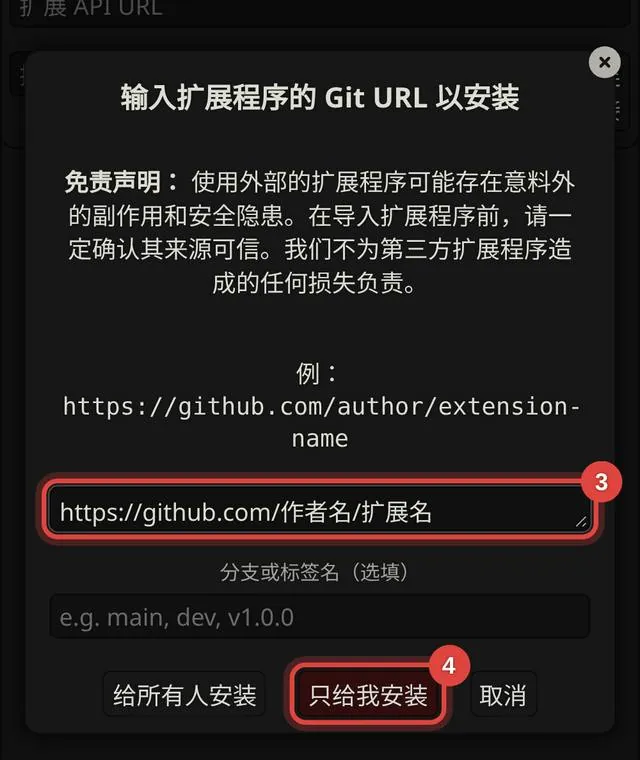
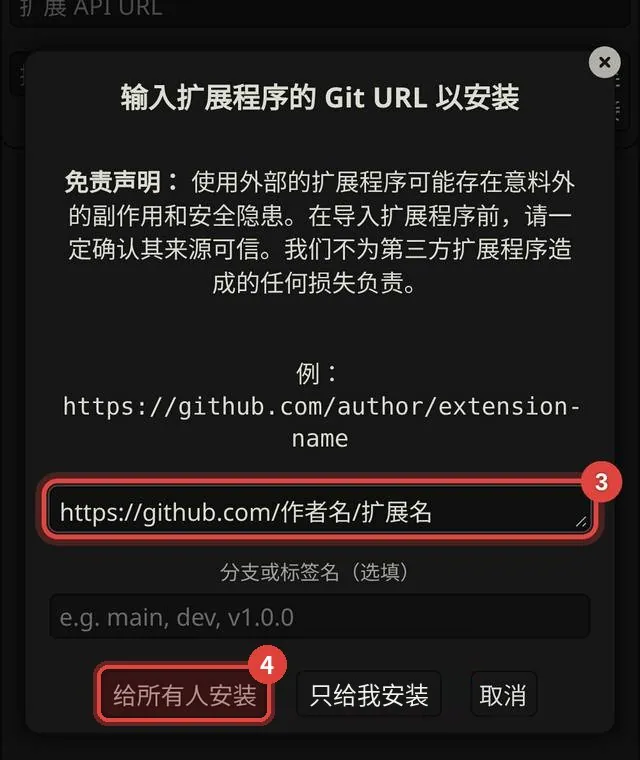
Update Love Fixer guides and clarify local data use

Changed region(s): [[0.125, 0.8474, 0.75, 0.9684]]

diff --git a/index.js b/index.js
@@ -324,7 +324,7 @@ function panelHtml(kind = 'ext') {
                     <label>格式<select class="text_pole lf-h" data-h="protocol"><option value="openai"${h.protocol === 'openai' ? ' selected' : ''}>OpenAI 兼容</option><option value="anthropic"${h.protocol === 'anthropic' ? ' selected' : ''}>Anthropic</option></select></label>
                     <label>地址<input class="text_pole lf-h" data-h="url" value="${esc(h.url)}" placeholder="https://你的接口/v1"></label>
                     <label>模型<input class="text_pole lf-h" data-h="model" value="${esc(h.model)}" placeholder="填模型名"></label>
-                    <label>密钥<input class="text_pole lf-key" type="password" value="${esc(localStorage.getItem('lf_helper_key') || '')}" placeholder="只存在这台设备的浏览器里"></label>
+                    <label>密钥<input class="text_pole lf-key" type="password" value="${esc(localStorage.getItem('lf_helper_key') || '')}" placeholder="保存在本机，用于请求所选接口"></label>
                 </div>
                 <label>答疑链接<input class="text_pole lf-h" data-h="desk" value="${esc(h.desk)}" placeholder="「新手答疑」频道链接，填了就能一键跳过去"></label>
                 <div class="lf-attach"><span>提问时附带</span>
@@ -943,9 +943,9 @@ let helperOn = false; let helperBypass = false; let tipHit = null;
 let frameEl; let tipEl; let badgeEl;
 
 const MARK = {
-    main: '预设作者写的总规矩：AI 扮演谁、怎么写、哪些不能写。排在最前，AI 把它当“法律”；但离最新消息最远，聊久了会被冲淡，所以重要规则常在尾部再强调一次。',
+    main: '预设作者写的总规矩：AI 扮演谁、怎么写、哪些不能写。破限一般也放在预设最上面这一块。排在最前，AI 把它当“法律”；但离最新消息最远，聊久了会被冲淡，所以重要规则常在尾部再强调一次。',
     nsfw: '辅助提示词槽位，酒馆固定的一个位置，很多预设拿它放额外规则，具体内容看预设作者写了什么。',
-    jailbreak: '后置指令（俗称破限位）：排在聊天历史后面，是 AI 开口前最后看到的规矩之一，用来压住前面被冲淡的规则，也最容易和别的条目打架。',
+    jailbreak: '后置指令：排在聊天历史后面，是 AI 开口前最后看到的规矩之一，用来压住前面被冲淡的规则，也最容易和别的条目打架。（破限不在这里，破限一般放在预设最上面。）',
     enhanceDefinitions: '增强定义：让 AI 调用自己对知名角色的了解来补全设定，原创卡一般用不上。',
     worldInfoBefore: '世界书（角色定义之前）：酒馆固定位。所有设成“角色定义之前”的世界书条目都塞到这里，先给舞台再给演员。蓝灯条目每次都在，绿灯条目要聊天里出现关键词才进来。',
     worldInfoAfter: '世界书（角色定义之后）：紧贴角色定义，AI 会把这里当成角色的补充来读，适合关系网、隐藏设定。',
@@ -986,7 +986,7 @@ function explainPrompt(li) {
     else if (p?.role === 'assistant') lines.push('以 AI 的身份发送：AI 会把这段当成“自己说过的话”。');
     if (p?.content && !p.marker) lines.push('内容开头：' + esc(snip(p.content, 70)));
     const tags = [isOn && idx >= 0 ? `第 ${idx + 1} / ${enabled.length} 条` : '未启用，不会发送', '发送身份 ' + role, abs ? `深度 D${depth}` : (MARK[id] ? '酒馆固定位' : '相对位置')];
-    const SL = { main: '主提示', jailbreak: '破限位、JB', nsfw: 'NSFW 位', worldInfoBefore: '世界书', worldInfoAfter: '世界书', chatHistory: '上下文、聊天记录', dialogueExamples: '示例对话', personaDescription: 'user 人设、Persona', charDescription: '卡' };
+    const SL = { main: '主提示', jailbreak: '后置指令', nsfw: 'NSFW 位', worldInfoBefore: '世界书', worldInfoAfter: '世界书', chatHistory: '上下文、聊天记录', dialogueExamples: '示例对话', personaDescription: 'user 人设、Persona', charDescription: '卡' };
     let slang = SL[id] || (abs ? `D${depth}、深度注入` : '');
     if (p?.role === 'assistant' && idx === enabled.length - 1 && idx >= 0) slang = '预填、prefill';
     return {
@@ -1065,15 +1065,15 @@ function explainControl(el) {
 const GLOSSARY = [
     ['酒馆', 'ST、SillyTavern', '就是 SillyTavern 本体，一个连 AI 玩角色扮演的前端。'],
     ['卡', '角色卡', '一张 PNG 或 JSON，存角色设定和开场白，可能还自带世界书和正则。'],
-    ['人设卡 / 世界卡 / 多人卡', '', '人设卡写一个角色；世界卡写一个世界，AI 当旁白；多人卡是一张卡里有好几个角色，各个角色的设定放在世界书里，聊到谁就把谁的条目发给 AI。'],
-    ['多人卡', '', '一张卡里有好几个角色。角色设定一般放在卡自带的世界书里，每个角色一条，聊天里提到谁就触发谁的条目。所以导入多人卡时，一定要选“导入卡内世界书”。'],
+    ['人设卡 / 世界卡 / 多人卡', '', '人设卡写一个角色；世界卡写一个世界，AI 当旁白；多人卡是一张卡里有好几个角色，各个角色的设定放在世界书里：绿灯的角色条目要聊天里提到才发，蓝灯的每次都发。'],
+    ['多人卡', '', '一张卡里有好几个角色。角色设定一般放在卡自带的世界书里，每个角色一条。这些条目是绿灯的话，聊天里提到这个角色才会发给 AI；是蓝灯的话，每次都会发。所以导入多人卡时，一定要选“导入卡内世界书”。'],
     ['同人卡', '', '基于已有作品的卡。'],
     ['手枪卡', '', '以成人内容为主的卡。'],
     ['前端卡', '美化卡', '自带网页界面的卡，靠正则或酒馆助手把文字渲染成界面，状态栏、开场白主页都算。'],
     ['开场白', '首条、0 楼', '卡的第一条消息。“开场白主页”是可以点按钮选开局的前端界面。'],
     ['写卡', '搓卡、捏卡', '自己写角色卡。'],
     ['预设', '', '一整套发给 AI 的规矩加参数：文风、规则、长度、温度。'],
-    ['破限', 'JB、越狱', '让模型少拒绝、放开写的提示词。“破限位”就是预设里的后置指令那一格。'],
+    ['破限', 'JB、越狱', '让模型少拒绝、放开写的提示词，一般放在预设最上面。'],
     ['预填', '预填充、prefill', '替 AI 写好回复开头，AI 会顺着往下写。注意 Gemini 3.1 Pro，还有 3.5 Flash 之后出的哈基米（3.6 Flash 起），都不适配预填了；3.5 Flash 本身还能用。'],
     ['双惩罚', '频率惩罚、存在惩罚', '两个治复读的参数。哈基米从 Gemini 2.5 起就不支持了，调了也没用，放 0 就行。'],
     ['思维链', 'COT、思考', '让 AI 先打草稿、想清楚再写正文。'],
@@ -1759,7 +1759,7 @@ function wizUrlCheck() {
 function wizKey(acts) {
     const ch = wizCh;
     guide(q1(ch.key));
-    wizSay('密钥要你<b>自己填</b>，我不会碰，也看不到。填进红框里，填好点“我填好了”，我帮你点连接。<br><span class="lf-wdim">提醒：密钥相当于密码，别发给任何人；分享截图前把密钥遮住。中转地址不用遮，去答疑提问时别人要看它对不对。</span>', acts);
+    wizSay('密钥要你<b>自己填</b>，我只检查红框里是否已填写，不保存这处的密钥内容。填好点“我填好了”，我帮你点连接。<br><span class="lf-wdim">提醒：密钥相当于密码，别发给任何人；分享截图前把密钥遮住。中转地址不用遮，去答疑提问时别人要看它对不对。</span>', acts);
     wizOpts([['我填好了', wizConnect, 1], ['密钥去哪拿？', () => { wizSay(ch.where + '密钥相当于账号密码，别发给任何人。'); wizOpts([['我填好了', wizConnect, 1]]); }]]);
 }
 
@@ -1903,7 +1903,7 @@ function wizHelperSetup() {
     const h = { ...(ch.helper || { protocol: 'openai', url: '', model: '' }) };
     if (ch.src === 'custom' && !ch.fixedUrl) h.url = (q1(ch.url)?.value || '').trim();
     const needModel = !h.model;
-    wizSay(`我先帮你填好：格式 ${h.protocol === 'anthropic' ? 'Anthropic' : 'OpenAI 兼容'}，地址 ${esc(h.url || '（待填）')}${h.model ? `，模型 ${esc(h.model)}` : ''}。<br>密钥还是要<b>你自己粘贴</b>一次（和刚才那个一样就行），只存在这台设备的浏览器里。
+    wizSay(`我先帮你填好：格式 ${h.protocol === 'anthropic' ? 'Anthropic' : 'OpenAI 兼容'}，地址 ${esc(h.url || '（待填）')}${h.model ? `，模型 ${esc(h.model)}` : ''}。<br>密钥还是要<b>你自己粘贴</b>一次（和刚才那个一样就行），会保存在本机浏览器，并用于请求选定的 AI 接口。
         <div class="lf-wform"><input type="password" class="text_pole" id="lf_wk" placeholder="粘贴密钥">${needModel ? '<input class="text_pole" id="lf_wm" placeholder="填一个便宜的模型名，带 mini、flash、haiku 的一般都便宜">' : ''}</div>`);
     wizOpts([['保存并测试', async () => {
         const key = (document.getElementById('lf_wk')?.value || '').trim();
@@ -2631,7 +2631,7 @@ const GUIDES = {
         pages: [
             ['step1', '点顶栏的“扩展程序”', '积木形状的图标，所有扩展都住在这里。', '#extensions-settings-button > .drawer-toggle', ''],
             ['step2', '点“安装扩展程序”', '扩展面板最上面那排按钮里，带云朵下载箭头的那个。', '#third_party_extension_button', '#extensions-settings-button'],
-            ['step3', '粘贴地址，点“只给我安装”', '把扩展的 Git 地址粘进输入框，一般是从社区帖子里复制的 GitHub 链接。下面的“分支或标签名”不用填。管理员会多一个“给所有人安装”。GitHub 连不上，就用帖子里给的镜像地址。', '', ''],
+            ['step3', '粘贴地址，点“给所有人安装”', '把扩展的 Git 地址粘进输入框，一般是从社区帖子里复制的 GitHub 链接。下面的“分支或标签名”不用填。点“给所有人安装”；没有这个按钮的话，点“只给我安装”也一样。GitHub 连不上，就用帖子里给的镜像地址。', '', ''],
             ['step4', '第三方提醒：点“Yes, install it”', '不是官方扩展会弹这个英文提醒，意思是“第三方扩展可能有风险，确定要装吗”。确认来源可信就点 Yes。勾上“Don\'t show this warning again”，以后就不再问。', '', ''],
             ['step5', '看到“扩展程序安装成功”就好了', '新版酒馆会自动加载，老版本刷新一下页面。装好的扩展出现在扩展面板里，点它的标题展开设置。<br>实在装不上：把扩展下载成 zip，解压后整个文件夹放进 <code>SillyTavern/data/default-user/extensions/</code>，再重启酒馆。', '', ''],
         ],

diff --git a/docs/features.md b/docs/features.md
@@ -1,0 +1,139 @@
+# 功能介绍
+
+所有功能都从**顶栏的路线图标**进。三条杠菜单里也有两个入口：「Love 修正机」和「讲解：点哪讲哪」。
+
+点开总入口，从上到下是：
+
+| 位置 | 是什么 | 什么时候用 |
+|---|---|---|
+| 最上面 | **新手引导** | 第一次用，先做这个 |
+| 两个大按钮 | **帮我查问题** / **优化设置** | 出问题了 / 想调设置 |
+| 看不懂？ | 讲解、问小助手、词典、带我学 | 界面上哪儿不认识 |
+| 平时聊天 | 快捷台、做大总结 | 日常顺手用 |
+
+刚报过错时，「帮我查问题」会标上“刚才有报错”；聊天超过 10 万 token 时，「做大总结」会标上“该做了”。
+
+---
+
+## 1. 新手引导
+
+一张九步的清单，修正机自己判断哪步做完了，做完的打勾：
+
+1. 切成中文
+2. 连上 API
+3. 配好小助手（可选）
+4. 导入预设
+5. 导入角色卡
+6. 装酒馆助手（可选）
+7. 认识正则（可选）
+8. 写 user 设定
+9. 发出第一句话
+
+点「下一步」就带你去做下一项没做的。每一步都会打开对应的面板，**用红框框出要点的地方**，底下的「小助手 · 带你做」窗口说明怎么操作。要框的东西被窗口挡住时，会自动滚上来，或者把窗口挪到屏幕顶上。
+
+配 API 时会帮你填好接口类型和来源；用中转的话，**提示词后处理**会帮你选不带工具的「严格」。酒馆密钥由你自己填写；配置向导只检查密钥框是否已填写，不保存这处的密钥内容。
+
+---
+
+## 2. 帮我查问题
+
+出问题了就点这个，按顺序走：
+
+**① 自动体检**：一打开就查一遍常见问题。能修的点一下就修好，比如：
+
+- 接口不是聊天补全
+- 回复长度太小、上下文太小
+- 局部正则、预设正则的「允许」开关关着
+- 卡要用的酒馆助手、提示词模板没装
+- 聊天超过 10 万 token 没做大总结
+- 没写 user 设定
+- 用中转时提示词后处理不是「严格」
+- 哈基米开着真流、回复被截断
+- 用 Gemini 3.1 Pro、3.6 Flash 起的模型，预设里还开着预填
+- 开着内容一字不差的重复条目
+
+**② 让小助手看屏幕**：还没解决，就让小助手读一遍屏幕状态和报错（不读密钥），直接告诉你怎么办。要先接 API。
+
+**③ 去答疑提问**：前面都没解决，再去社区的「新手答疑」问人。修正机会帮你：
+
+- 把版本、设备、渠道和模型、中转地址、预设、卡、报错原文**自动填进提问草稿**
+- 接了 API 的话，小助手会追问几句，把「我做了什么 → 想要什么 → 实际怎样 → 试过什么」问清楚，写成完整的提问
+- 列出该截哪几张图，点「带我去」直接框出来
+
+> 截图只遮**密钥**、真名和联系方式。**中转地址不要遮**，答疑的人要靠它判断地址填得对不对。
+
+最下面是「修过的设置」：修正机替你改过的每一项都记着，可以一条条还原，也可以全部还原。
+
+另外有一张「条目之间有没有打架？」：体检只报能确定的问题，人称、字数、文风这类要读懂意思的，点它让小助手把开着的预设条目读一遍。
+
+---
+
+## 3. 优化设置
+
+最上面是**快速优化**，会认出你用的是手机还是电脑，推荐一个方案：
+
+| 方案 | 干什么 |
+|---|---|
+| 推荐 | 大多数人用这个：报错自动解释、收起少用的消息按钮、草稿防丢、回到底部、导入提醒、大总结提醒 |
+| 手机 | 推荐的全部，再加：关掉模糊和动画、只加载最近楼层、回车换行不发送、关滑动切回复、面板全屏、按钮放大 |
+| 极简 | 推荐的全部，再加：打开直接进上次的聊天、关掉模糊和动画、点选隐藏不用的按钮 |
+| 全关 | 修正全部关掉，酒馆恢复原样 |
+
+点一下就换，换完会提示这次打开、关掉了哪几项。
+
+下面还有：
+
+- **修正机外观**：日间 / 夜间 / 跟随酒馆，夜间有「黑与白」「黑蓝深海」两套，和智库一样。
+- **新手模式**：收起高级格式化、背景和用不上的扩展；预设、世界书、user 设定、美化、酒馆助手、正则、提示词模板都留着。
+- 各组开关：界面精简、后台优化、聊天、手机端、生成、功能开关、小助手设置。
+
+---
+
+## 4. 看不懂？
+
+- **讲解**：开了以后，点酒馆里任意地方，红框框住它并告诉你这是干嘛的。预设条目会讲它排在第几、深度 D 几、起什么作用；设置项会讲人话版，比如温度、提示词后处理、流式。点「问问它」可以接着问。
+- **问小助手**：直接打字问。可以借用酒馆当前的连接，也可以单独填一个便宜的模型。
+- **词典**：分「黑话」和「介绍」两类。黑话是圈里的说法，比如破限、八股、PVP、爆代码；介绍是功能说明，比如真流 / 假流 / 非流、提示词后处理、更新卡、XML 标签、别滥用 Markdown。
+- **带我学**：边框边教的小课，包括：
+  - 基础操作：写 user 设定、怎么发第一句话、抽卡改楼删楼、小铅笔、继续和重新生成
+  - 预设和正则：预设条目开关、看 AI 收到了什么、正则面板、思考怎么折叠
+  - 世界书和卡：做一本世界书、编辑角色卡、怎么做大总结、怎么更新角色卡、AI 失忆怎么办
+  - 维护和设置：备份和换设备、更新酒馆和扩展、连接配置文件、快速回复、怎么换美化
+  - 图文教程：怎么去答疑提问、怎么安装扩展、怎么切成中文
+
+---
+
+## 5. 平时聊天
+
+- **快捷台**：选卡（搜索、标签、收藏、最近聊过）、切换和改名聊天、跳到第几楼、换 char 头像（只改这个聊天，也能写入卡）、换 user 头像、换字体和字号，还有时间记录（这次在线、今天在线、平均每条等多久）。
+- **做大总结**：八步带你做完：
+  1. 看现在有多少 token
+  2. 打开预设里的大总结条目
+  3. 填总结指令（会要求保留状态栏数值）
+  4. 检查总结
+  5. 一键存进这个聊天专用的世界书，自动设成蓝灯、角色定义之后
+  6. 删掉“要求总结”和“总结”这两楼
+  7. 隐藏旧楼，留最近 10 楼
+  8. 关掉大总结条目
+
+---
+
+## 6. 自己会弹出来的提醒
+
+提醒会排队，一次只弹一个；AI 正在写、向导或弹窗开着的时候先等着。
+
+- **报错自动解释**：酒馆弹红色报错时，告诉你是什么意思、怎么办，比如 429 撞车、524 超时、400 预设不匹配、预填不适配。
+- **爆代码**：聊天里露出代码时，告诉你缺哪个扩展。都装了还爆，常见于切换开场白，会提示去提示词模板「先重置，再取消勾选先处理原始内容」。
+- **导入提醒**：卡里带脚本、带正则，或者缺扩展时提醒一句；导入全局正则时，提醒它会在所有卡里生效；导入同名卡时，提醒先把原本的世界书重命名或删掉。
+- **大总结提醒**：发给 AI 的聊天记录超过 10 万 token 提醒一次，每多 10 万再提醒。
+- **玩久了提醒休息**：默认关着，在优化设置里打开。
+
+---
+
+## 隐私
+
+- 配置向导只检查酒馆密钥框是否已填写，不保存这处的密钥内容。
+- 开启「输入框草稿防丢」时，未发送的文字会保存在本机浏览器。
+- 小助手「看屏幕」读的是界面状态文字，不是截图，所以 DeepSeek 这种不能看图的模型也能用。
+- 小助手单独填写的密钥保存在本机浏览器，并用于请求你选定的 AI 接口。
+- 时间记录只存在这台设备上。

diff --git a/README.md b/README.md
@@ -1,30 +1,48 @@
 # Love 修正机 · if love
 
-给酒馆新手的总体修正：新手引导、帮我查问题、优化设置、小助手讲解、词典、大总结教程。
+给酒馆（SillyTavern）新手的总体修正扩展：**装上就带你配好酒馆，出了问题帮你查，看不懂的点哪讲哪。**
 
-版本：1.1.0
+- **新手引导**：从配置 API 开始，九步带你用红框一步步做完
+- **帮我查问题**：自动体检 → 让小助手看屏幕 → 帮你写好提问去答疑
+- **优化设置**：手机、电脑各有一键方案，改过的都能还原
+- **讲解 / 词典 / 带我学**：点哪讲哪；黑话和功能介绍；边框边教的小课
+- **快捷台、大总结**：选卡、切聊天、换头像字体；超过 10 万 token 提醒并带你做大总结
+
+外观和「智库」同一套旅馆票卡风格，支持日间 / 夜间 / 跟随酒馆。
 
 ## 安装
 
-**方法一（推荐）**：酒馆 → 扩展 → 安装扩展程序 → 粘贴以下 Git 地址 → 只给我安装。
+酒馆 → 扩展（顶栏积木图标）→ 安装扩展程序 → 粘贴下面的地址 → 给所有人安装：
 
-```text
+```
 https://github.com/ruoege49-ship-it/love-fixer
 ```
 
-**方法二**：把整个 `love-fixer` 文件夹放进 `SillyTavern/data/default-user/extensions/`，重启酒馆。
+带截图的步骤看 **[安装教程](docs/install.md)**，或者直接看这张图：
 
-装好后顶栏会多一个修正机按钮（路线图标），所有功能都在里面。设置在 扩展 → Love 修正机。
+![安装教程](docs/install.png)
+
+## 用法
+
+装好后顶栏会多一个**路线图标**，所有功能都在里面；第一次打开会自动开始新手引导。
+
+每个功能怎么用：看 **[功能介绍](docs/features.md)**。
 
 ## 注意
 
-- 扩展版和酒馆助手脚本版（Love修正机.json）**只开一个**。两个都开时，先加载的那个生效，另一个会提示“已经在运行了”。
-- 换成扩展版以后，原来的设置会保留（同一份设置）。
+- 扩展版和酒馆助手脚本版（Love修正机.json）**只开一个**。
 - 停用扩展后刷新一次页面，修正才会完全撤掉。
+- 配置向导只检查酒馆密钥框是否已填写，不保存这处的密钥内容。小助手单独填写的密钥保存在本机浏览器，并用于请求你选定的 AI 接口。
+- 开启「输入框草稿防丢」时，未发送的文字会保存在本机浏览器。
 
 ## 文件
 
-- `manifest.json`：扩展说明
-- `index.js`：主程序
-- `style.css`：外观（和智库同一套旅馆票卡风格，支持日间 / 夜间 / 跟随酒馆）
-- `img/`：图文教程的图片
+| 文件 | 说明 |
+|---|---|
+| `manifest.json` | 扩展说明 |
+| `index.js` | 主程序 |
+| `style.css` | 外观 |
+| `img/` | 修正机里图文教程用的图片 |
+| `docs/` | 安装教程和功能介绍 |
+
+作者：if love

diff --git a/docs/install.md b/docs/install.md
@@ -1,0 +1,35 @@
+# 安装教程
+
+先复制地址：
+
+```
+https://github.com/ruoege49-ship-it/love-fixer
+```
+
+### ① 点顶栏的积木图标
+
+![](img/install-1.webp)
+
+### ② 点「安装扩展程序」
+
+![](img/install-2.webp)
+
+### ③ 粘贴地址，点「给所有人安装」（没有这个按钮就点「只给我安装」）
+
+![](img/install-3.webp)
+
+### ④ 点「Yes, install it」
+
+![](img/install-4.webp)
+
+### ⑤ 看到「安装成功」就好了，刷新一下页面
+
+![](img/install-5.webp)
+
+装好后顶栏会多一个路线图标，点它就能用。怎么用看 [功能介绍](features.md)。
+
+---
+
+**装不上？** 在仓库页面点 Code → Download ZIP，解压后把文件夹改名 `love-fixer`，放进 `SillyTavern/data/default-user/extensions/`，重启酒馆。
+
+**用过脚本版？** 去酒馆助手里把「Love 修正机」脚本关掉，只留一个。
